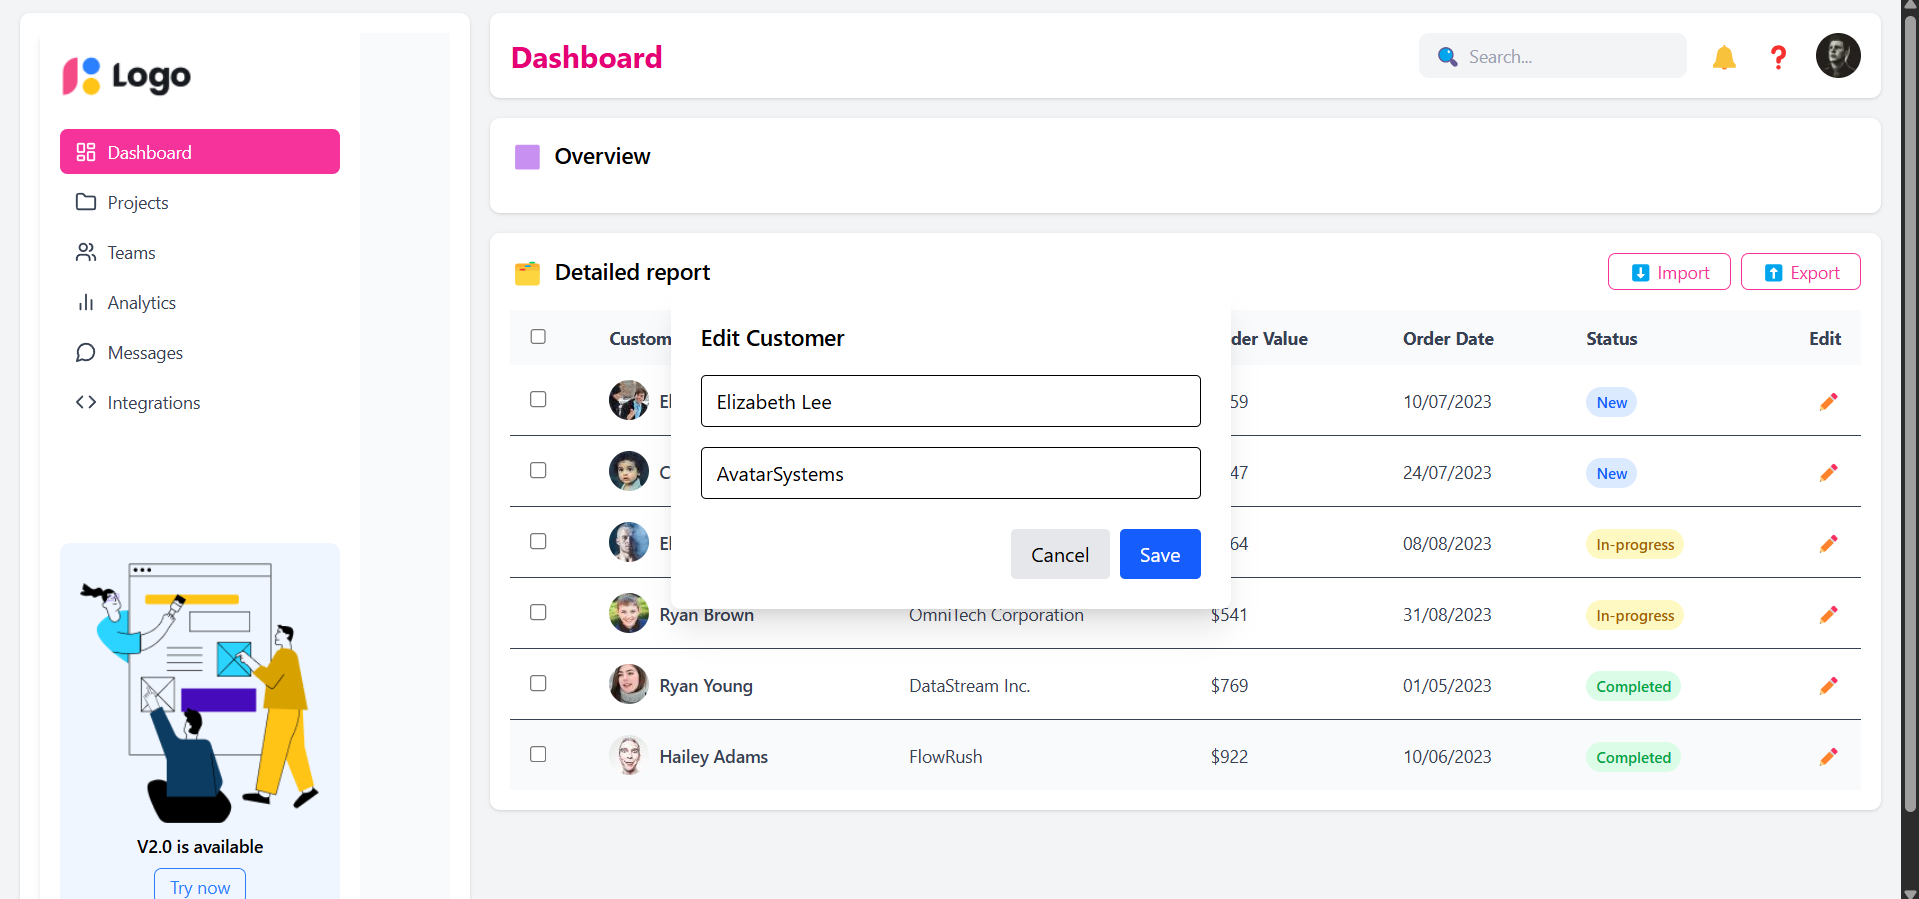
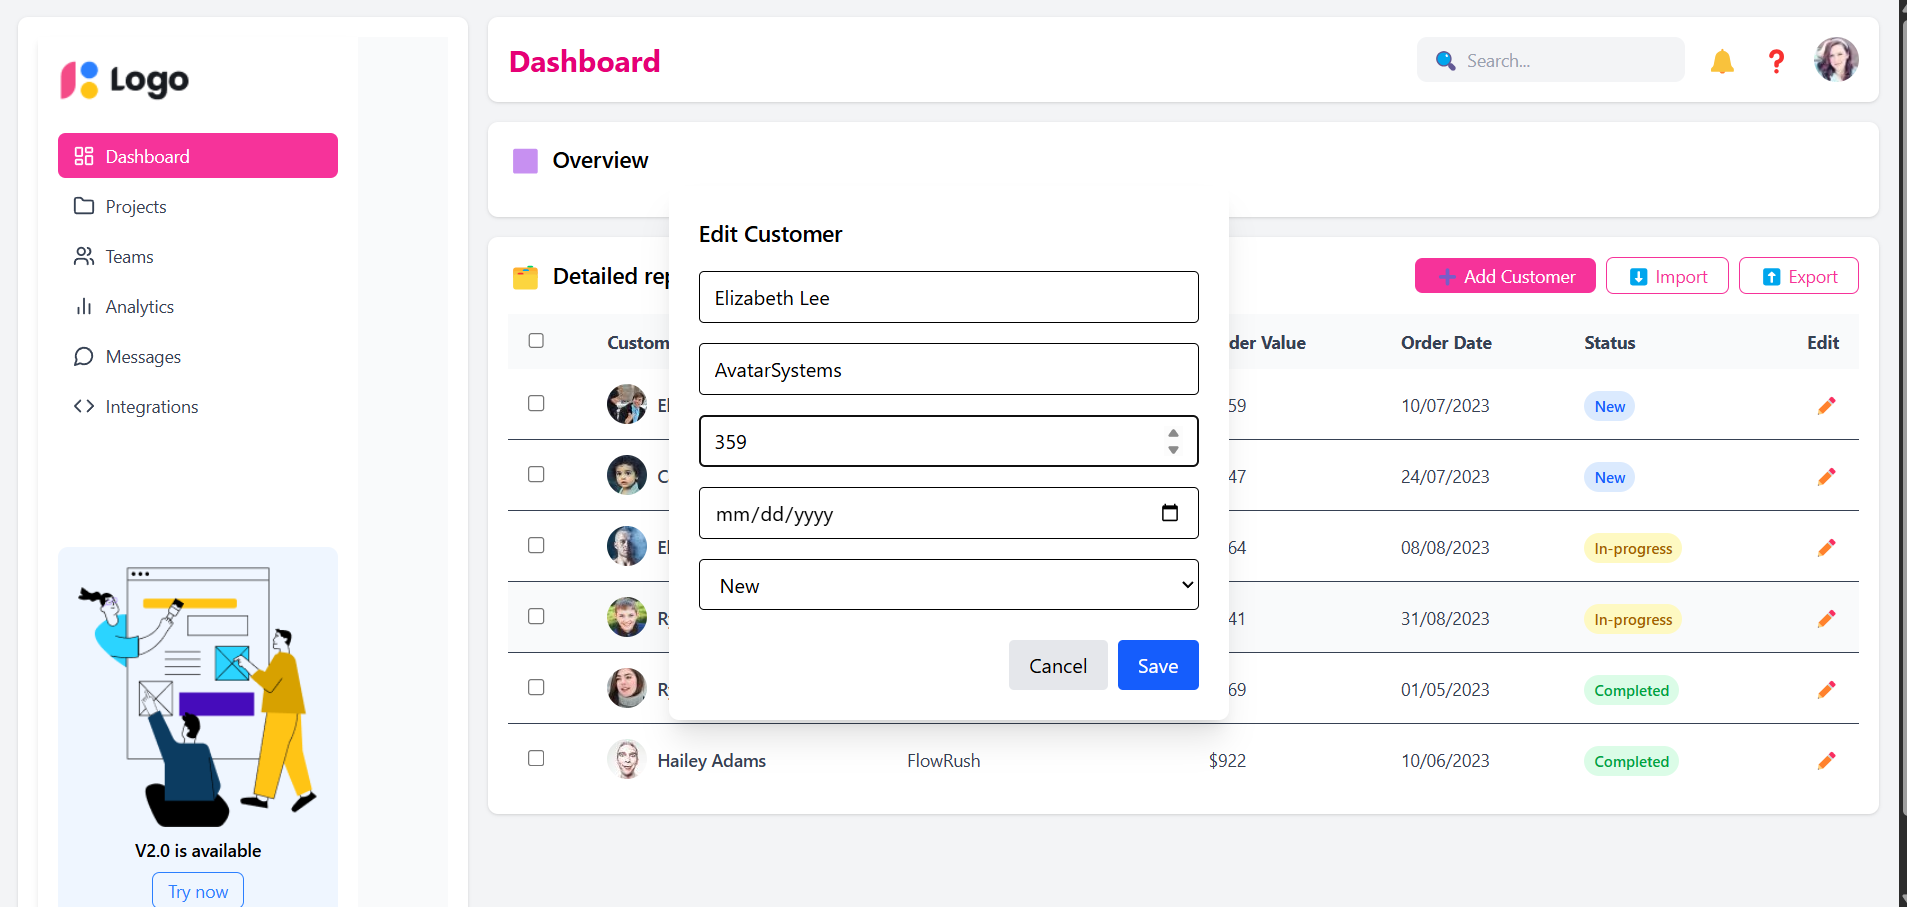
add modal + fix edit modal

diff --git a/adminLayout/src/components/AddCustomerModal.jsx b/adminLayout/src/components/AddCustomerModal.jsx
@@ -1,0 +1,90 @@
+import React, { useState } from "react";
+
+const AddCustomerModal = ({ isOpen, onClose, onAdd }) => {
+  const [name, setName] = useState("");
+  const [company, setCompany] = useState("");
+  const [value, setValue] = useState("");
+  const [date, setDate] = useState("");
+  const [status, setStatus] = useState("New");
+
+  const handleSave = () => {
+    if (!name || !company || !value || !date || !status) return;
+
+    onAdd({
+      id: Date.now(),
+      name,
+      avatar: `https://i.pravatar.cc/40?u=${name}`,
+      company,
+      value: `$${value}`,
+      date,
+      status,
+    });
+
+    // Reset form
+    setName("");
+    setCompany("");
+    setValue("");
+    setDate("");
+    setStatus("New");
+
+    onClose();
+  };
+
+  if (!isOpen) return null;
+
+  return (
+    <div className="fixed inset-0 flex items-center justify-center z-50 bg-black/30">
+      <div className="bg-white rounded-lg p-6 shadow-xl w-[400px] space-y-4">
+        <h2 className="text-xl font-semibold">Add Customer</h2>
+        <input
+          className="w-full border p-2 rounded"
+          placeholder="Customer name"
+          value={name}
+          onChange={(e) => setName(e.target.value)}
+        />
+        <input
+          className="w-full border p-2 rounded"
+          placeholder="Company"
+          value={company}
+          onChange={(e) => setCompany(e.target.value)}
+        />
+        <input
+          className="w-full border p-2 rounded"
+          placeholder="Order Value"
+          type="number"
+          value={value}
+          onChange={(e) => setValue(e.target.value)}
+        />
+        <input
+          className="w-full border p-2 rounded"
+          type="date"
+          value={date}
+          onChange={(e) => setDate(e.target.value)}
+        />
+        <select
+          className="w-full border p-2 rounded"
+          value={status}
+          onChange={(e) => setStatus(e.target.value)}
+        >
+          <option value="New">New</option>
+          <option value="In-progress">In-progress</option>
+          <option value="Completed">Completed</option>
+        </select>
+
+        <div className="flex justify-end space-x-2">
+          <button className="bg-gray-300 px-4 py-2 rounded" onClick={onClose}>
+            Cancel
+          </button>
+          <button
+            className="bg-blue-500 text-white px-4 py-2 rounded"
+            onClick={handleSave}
+          >
+            Save
+          </button>
+        </div>
+      </div>
+    </div>
+  );
+};
+
+export default AddCustomerModal;

diff --git a/adminLayout/src/components/EditCustomerModal.jsx b/adminLayout/src/components/EditCustomerModal.jsx
@@ -1,20 +1,36 @@
 import React, { useState, useEffect } from "react";
 
-const EditCustomerModal = ({ isOpen, onClose, customer }) => {
+const EditCustomerModal = ({ isOpen, onClose, customer, onSave }) => {
   const [name, setName] = useState("");
   const [company, setCompany] = useState("");
+  const [value, setValue] = useState("");
+  const [date, setDate] = useState("");
+  const [status, setStatus] = useState("New");
 
   useEffect(() => {
     if (customer) {
-      setName(customer.name);
-      setCompany(customer.company);
+      setName(customer.name || "");
+      setCompany(customer.company || "");
+      setValue(customer.value?.replace("$", "") || "");
+      setDate(customer.date || "");
+      setStatus(customer.status || "New");
     }
   }, [customer]);
 
   const handleSubmit = (e) => {
     e.preventDefault();
-    // xử lý logic update customer ở đây
-    console.log("Updated:", { name, company });
+    if (!name || !company || !value || !date || !status) return;
+
+    const updatedCustomer = {
+      ...customer,
+      name,
+      company,
+      value: `$${value}`,
+      date,
+      status,
+    };
+
+    onSave(updatedCustomer);
     onClose();
   };
 
@@ -39,6 +55,28 @@ const EditCustomerModal = ({ isOpen, onClose, customer }) => {
             value={company}
             onChange={(e) => setCompany(e.target.value)}
           />
+          <input
+            type="number"
+            className="w-full px-3 py-2 border rounded"
+            placeholder="Order Value"
+            value={value}
+            onChange={(e) => setValue(e.target.value)}
+          />
+          <input
+            type="date"
+            className="w-full px-3 py-2 border rounded"
+            value={date}
+            onChange={(e) => setDate(e.target.value)}
+          />
+          <select
+            className="w-full px-3 py-2 border rounded"
+            value={status}
+            onChange={(e) => setStatus(e.target.value)}
+          >
+            <option value="New">New</option>
+            <option value="In-progress">In-progress</option>
+            <option value="Completed">Completed</option>
+          </select>
           <div className="flex justify-end gap-2 pt-2">
             <button
               type="button"

diff --git a/adminLayout/src/components/DashboardLayout.jsx b/adminLayout/src/components/DashboardLayout.jsx
@@ -1,6 +1,7 @@
 import React, { useState } from "react";
 import Sidebar from "./Sidebar.jsx";
 import EditCustomerModal from "./EditCustomerModal";
+import AddCustomerModal from "./AddCustomerModal";
 
 const initialCustomers = [
   {
@@ -63,6 +64,11 @@ const DashboardLayout = () => {
   const [customers, setCustomers] = useState(initialCustomers);
   const [editingCustomer, setEditingCustomer] = useState(null);
   const [isEditModalOpen, setEditModalOpen] = useState(false);
+  const [isAddModalOpen, setAddModalOpen] = useState(false);
+
+  const handleAddCustomer = (newCustomer) => {
+    setCustomers((prev) => [...prev, newCustomer]);
+  };
 
   const handleEditClick = (customer) => {
     setEditingCustomer(customer);
@@ -134,6 +140,12 @@ const DashboardLayout = () => {
                 <h2 className="text-lg font-semibold">Detailed report</h2>
               </div>
               <div className="space-x-2">
+                <button
+                  className="bg-pink-500 text-white px-4 py-1 rounded-md hover:bg-pink-600 text-sm"
+                  onClick={() => setAddModalOpen(true)}
+                >
+                  ➕ Add Customer
+                </button>
                 <button className="border border-pink-500 text-pink-500 px-4 py-1 rounded-md hover:bg-pink-50 text-sm">
                   ⬇ Import
                 </button>
@@ -204,6 +216,12 @@ const DashboardLayout = () => {
         isOpen={isEditModalOpen}
         onClose={() => setEditModalOpen(false)}
         onSave={handleSave}
+      />
+
+      <AddCustomerModal
+        isOpen={isAddModalOpen}
+        onClose={() => setAddModalOpen(false)}
+        onAdd={handleAddCustomer}
       />
     </div>
   );
